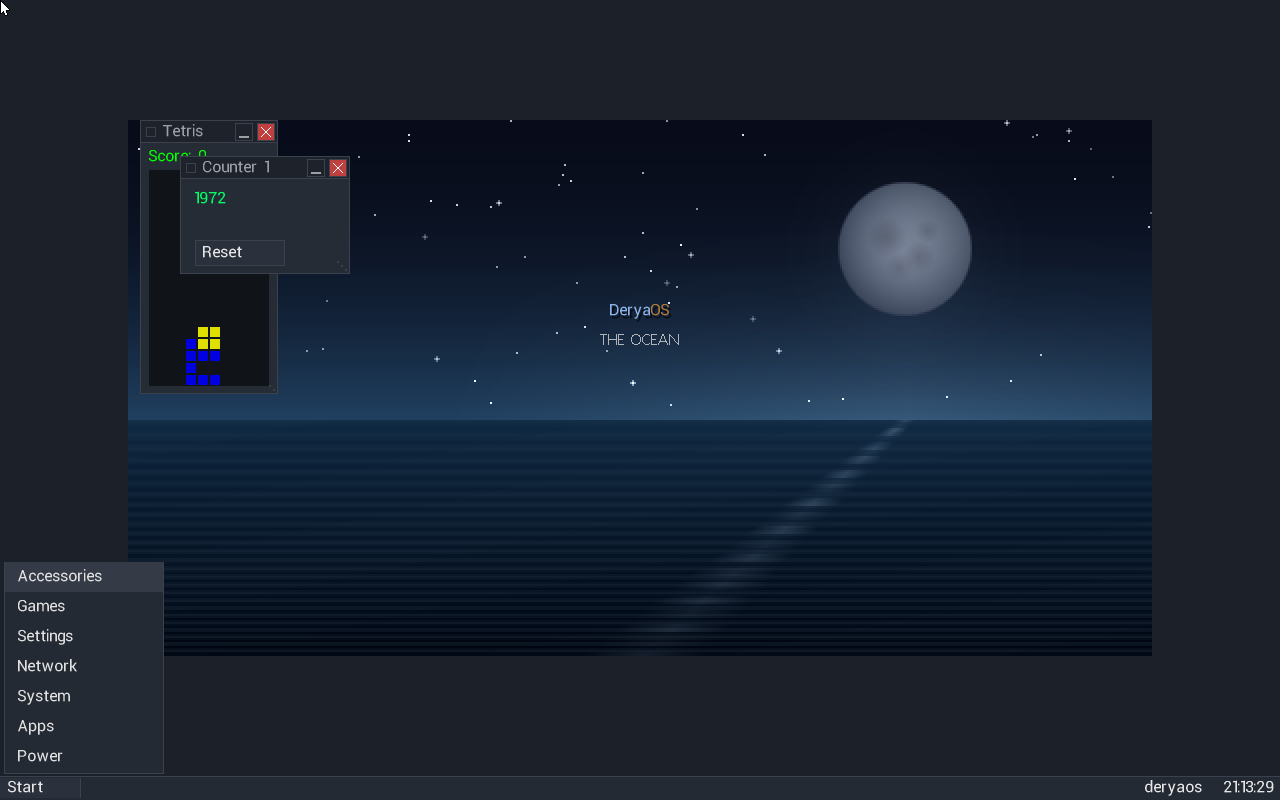
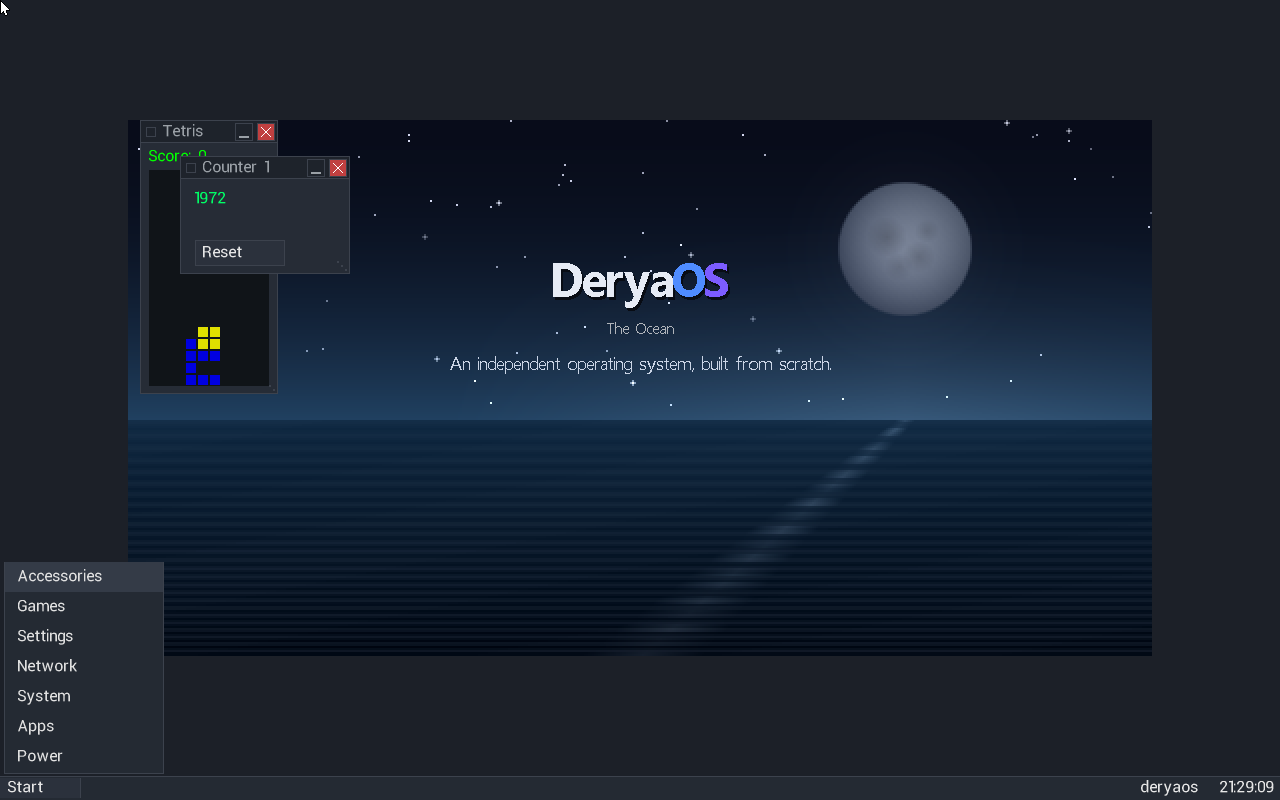
site: bump downloads to beta-part4274 + new wallpaper desktop screenshot (restyled wordmark)

diff --git a/index.html b/index.html
@@ -102,24 +102,24 @@
       <div class="card dlcard">
         <h3 data-i18n="dl_ova">Ready VM — VMware / VirtualBox</h3>
         <p data-i18n="dl_ova_d">A preinstalled appliance. In VMware or VirtualBox choose File → Import (Open Appliance), pick the .ova, and boot straight to the DeryaOS desktop.</p>
-        <a class="dlbtn" href="https://github.com/deryaos/deryaos.github.io/releases/download/beta-part4273/deryaos-x86.ova">deryaos-x86.ova</a>
+        <a class="dlbtn" href="https://github.com/deryaos/deryaos.github.io/releases/download/beta-part4274/deryaos-x86.ova">deryaos-x86.ova</a>
       </div>
       <div class="card dlcard">
         <h3 data-i18n="dl_vm">Ready VM — QEMU</h3>
         <p data-i18n="dl_vm_d">Unzip, install QEMU, run the launcher — a DeryaOS desktop boots in a window.</p>
-        <a class="dlbtn" href="https://github.com/deryaos/deryaos.github.io/releases/download/beta-part4273/deryaos-x86-vm.zip">deryaos-x86-vm.zip</a>
+        <a class="dlbtn" href="https://github.com/deryaos/deryaos.github.io/releases/download/beta-part4274/deryaos-x86-vm.zip">deryaos-x86-vm.zip</a>
         <p class="dlsub"><a href="https://www.qemu.org/download/" data-i18n="dl_qemu">Download QEMU →</a></p>
       </div>
       <div class="card dlcard">
         <h3 data-i18n="dl_img">Installer image (USB)</h3>
         <p data-i18n="dl_img_d">Gunzip and write to a USB stick (Rufus / dd), then boot to install on real hardware.</p>
-        <a class="dlbtn" href="https://github.com/deryaos/deryaos.github.io/releases/download/beta-part4273/deryaos-x86.img.gz">deryaos-x86.img.gz</a>
+        <a class="dlbtn" href="https://github.com/deryaos/deryaos.github.io/releases/download/beta-part4274/deryaos-x86.img.gz">deryaos-x86.img.gz</a>
       </div>
       <div class="card dlcard">
         <h3 data-i18n="dl_seed">Seed CD &amp; diskette</h3>
         <p data-i18n="dl_seed_d">Small bootable media that installs the full system. ISO for a CD or a VM, plus a classic 1.44 MB boot diskette.</p>
-        <a class="dlbtn" href="https://github.com/deryaos/deryaos.github.io/releases/download/beta-part4273/DeryaOS-minimal-seed.iso">seed.iso</a>
-        <p class="dlsub"><a href="https://github.com/deryaos/deryaos.github.io/releases/download/beta-part4273/DeryaOS-minimal-seed.img" data-i18n="dl_seed_flp">1.44 MB diskette →</a></p>
+        <a class="dlbtn" href="https://github.com/deryaos/deryaos.github.io/releases/download/beta-part4274/DeryaOS-minimal-seed.iso">seed.iso</a>
+        <p class="dlsub"><a href="https://github.com/deryaos/deryaos.github.io/releases/download/beta-part4274/DeryaOS-minimal-seed.img" data-i18n="dl_seed_flp">1.44 MB diskette →</a></p>
       </div>
     </div>
     <p class="dlnote" data-i18n="dl_note">More architectures and images are on the way. <a href="https://github.com/deryaos/deryaos.github.io/releases">All releases →</a></p>

diff --git a/guide.html b/guide.html
@@ -72,7 +72,7 @@
         <li>VMware Workstation Player — free for personal use: <a href="https://www.vmware.com/products/workstation-player.html">vmware.com</a></li>
       </ul>
     </li>
-    <li><strong>Download the appliance:</strong> <a href="https://github.com/deryaos/deryaos.github.io/releases/download/beta-part4273/deryaos-x86.ova">deryaos-x86.ova</a> (about 7 MB).</li>
+    <li><strong>Download the appliance:</strong> <a href="https://github.com/deryaos/deryaos.github.io/releases/download/beta-part4274/deryaos-x86.ova">deryaos-x86.ova</a> (about 7 MB).</li>
     <li><strong>Import it:</strong>
       <ul>
         <li><em>VirtualBox</em> → menu <kbd>File → Import Appliance…</kbd> → choose the <code>.ova</code> → <kbd>Next</kbd> → <kbd>Finish</kbd>.</li>
@@ -87,7 +87,7 @@
   <p>QEMU is a free, lightweight emulator. We ship a zip with the disk image and one-click launchers.</p>
   <ol>
     <li><strong>Install QEMU:</strong> <a href="https://www.qemu.org/download/">qemu.org/download</a> (pick your operating system; on Windows use the installer, on macOS <code>brew install qemu</code>, on Linux your package manager).</li>
-    <li><strong>Download the VM bundle:</strong> <a href="https://github.com/deryaos/deryaos.github.io/releases/download/beta-part4273/deryaos-x86-vm.zip">deryaos-x86-vm.zip</a> and unzip it anywhere.</li>
+    <li><strong>Download the VM bundle:</strong> <a href="https://github.com/deryaos/deryaos.github.io/releases/download/beta-part4274/deryaos-x86-vm.zip">deryaos-x86-vm.zip</a> and unzip it anywhere.</li>
     <li><strong>Run the launcher</strong> inside the unzipped folder:
       <ul>
         <li>Windows — double-click <code>run-vm-windows.bat</code></li>
@@ -102,7 +102,7 @@
   <h2 id="real">C · Install on a real PC</h2>
   <div class="note warn"><strong>This writes to a real disk.</strong> Use a spare machine or one whose data you’ve backed up. You have been warned.</div>
   <ol>
-    <li><strong>Download the installer image:</strong> <a href="https://github.com/deryaos/deryaos.github.io/releases/download/beta-part4273/deryaos-x86.img.gz">deryaos-x86.img.gz</a>, then un-gzip it to get <code>deryaos.img</code> (Windows: 7-Zip; Linux/macOS: <code>gunzip deryaos-x86.img.gz</code>).</li>
+    <li><strong>Download the installer image:</strong> <a href="https://github.com/deryaos/deryaos.github.io/releases/download/beta-part4274/deryaos-x86.img.gz">deryaos-x86.img.gz</a>, then un-gzip it to get <code>deryaos.img</code> (Windows: 7-Zip; Linux/macOS: <code>gunzip deryaos-x86.img.gz</code>).</li>
     <li><strong>Write it to a USB stick</strong> (this erases the stick):
       <ul>
         <li>Windows — use <a href="https://rufus.ie/">Rufus</a>: select the USB, choose <code>deryaos.img</code>, write in <em>DD image</em> mode.</li>
@@ -113,7 +113,7 @@
     <li><strong>Install to the internal disk</strong> from that shell:
       <pre><code>inst plan ATA0            # survey the disk (try AHCI0 / NVME0 if ATA0 is empty)
 inst -f ATA0 compact     # fresh full install to that disk</code></pre>
-      Then reboot and pick the new disk. <em>Tiny CD/diskette alternative:</em> the <a href="https://github.com/deryaos/deryaos.github.io/releases/download/beta-part4273/DeryaOS-minimal-seed.iso">seed ISO</a> and <a href="https://github.com/deryaos/deryaos.github.io/releases/download/beta-part4273/DeryaOS-minimal-seed.img">1.44 MB diskette</a> boot the same installer.</li>
+      Then reboot and pick the new disk. <em>Tiny CD/diskette alternative:</em> the <a href="https://github.com/deryaos/deryaos.github.io/releases/download/beta-part4274/DeryaOS-minimal-seed.iso">seed ISO</a> and <a href="https://github.com/deryaos/deryaos.github.io/releases/download/beta-part4274/DeryaOS-minimal-seed.img">1.44 MB diskette</a> boot the same installer.</li>
   </ol>
 
   <h2 id="first">First steps after it boots</h2>